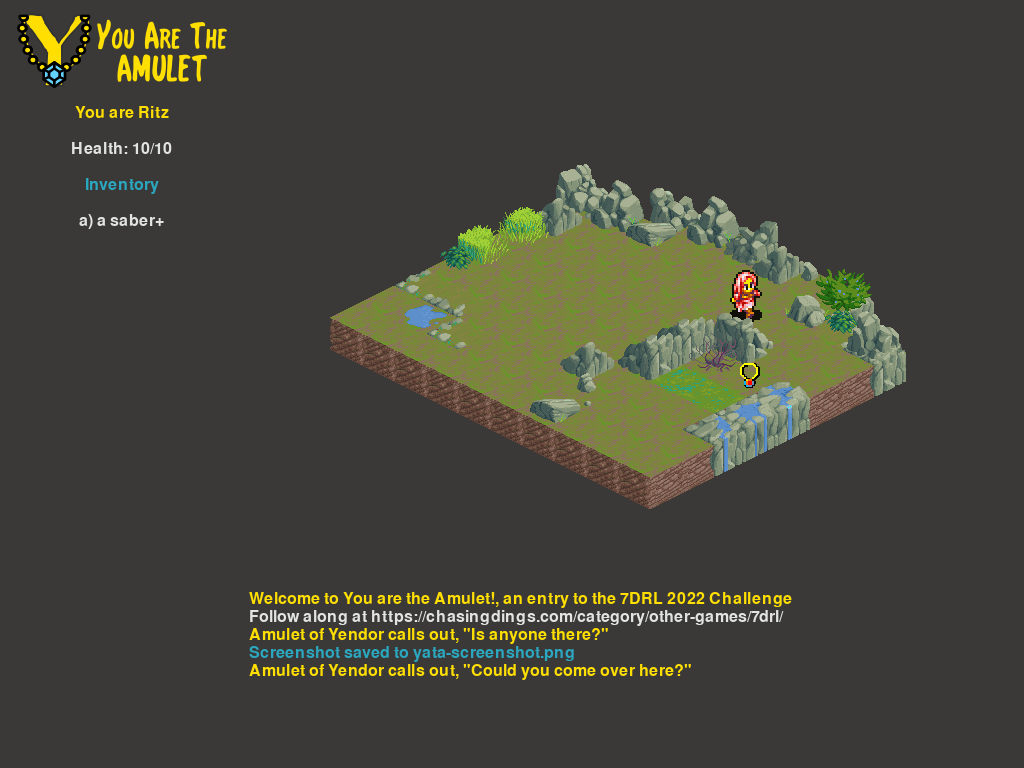
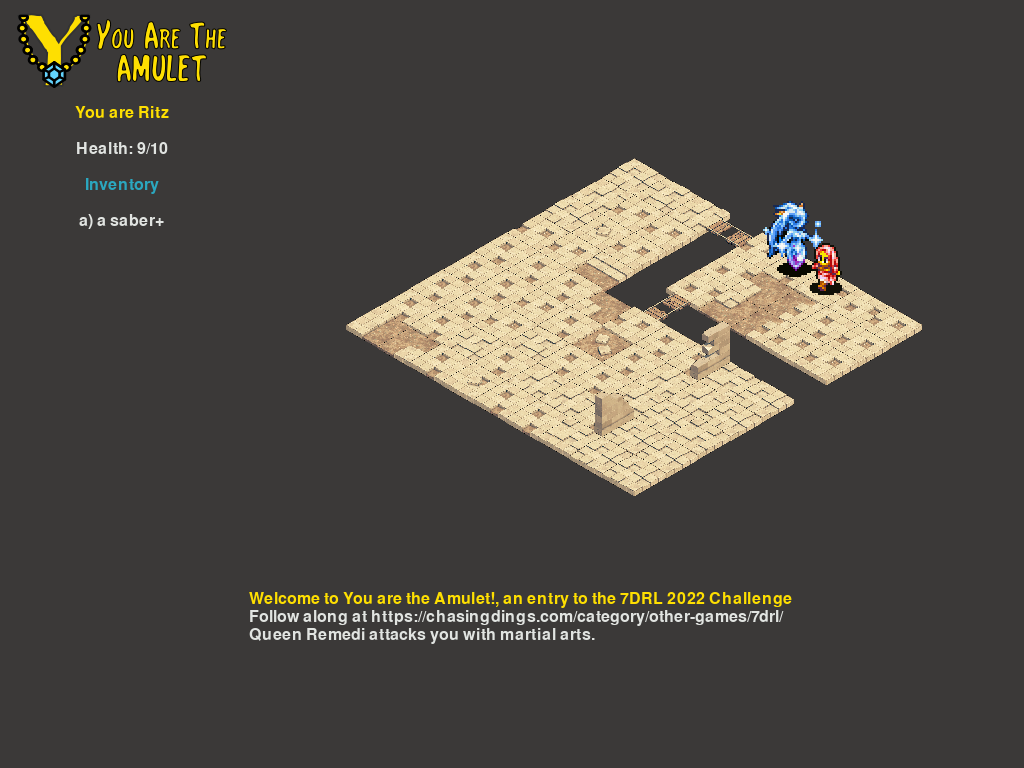
Add final room and tileset

diff --git a/gameloader.py b/gameloader.py
@@ -56,11 +56,13 @@ def create_map(amulet):
                 froom.height = tiled_room['width']
                 froom.width = tiled_room['height']
                 froom.layers = tiled_room['layers']
+                froom.offset = froom.tiled['offset']
                 for layer_no, layer in enumerate(tiled_room['layers']):
                     if layer_no == 0:
                         froom.good_spaces = set((x, y) for y in range(froom.height) for x in range(froom.width) if layer['data'][(froom.width - 1 - x) * froom.height + y] != 0)
                     elif layer_no == 1:
-                        froom.bad_spaces = set((x-1, y+1) for y in range(froom.height) for x in range(froom.width) if layer['data'][(froom.width - 1 - x) * froom.height + y] != 0)
+                        froom.bad_spaces = set((x-froom.offset, y+froom.offset) for y in range(froom.height) for x in range(froom.width) if layer['data'][(froom.width - 1 - x) * froom.height + y] != 0)
+                        print (f"Bad spaces: {froom.name} {froom.offset} {froom.bad_spaces}")
 
                 all_spaces = list(froom.good_spaces - froom.bad_spaces)
                 froom.good_spaces = set(all_spaces)
@@ -150,10 +152,11 @@ def load_actors(amulet, floor_yaml, floor_room_map, floor_room_tiles_map):
         
         p_actor.health = p_actor.max_health = template['health']
 
-        for item in actor['inventory']:
-            pitem = Item(amulet.weapons[item['item']])
-            pitem.identified = True
-            p_actor.inventory.append(pitem)
+        if 'inventory' in actor and actor['inventory']:
+            for item in actor['inventory']:
+                pitem = Item(amulet.weapons[item['item']])
+                pitem.identified = True
+                p_actor.inventory.append(pitem)
 
         wieldable_items = [item for item in p_actor.inventory if item.can_wield()]
         if wieldable_items:

diff --git a/room.py b/room.py
@@ -40,6 +40,7 @@ class Room:
         self.floor_tile.width = self.tiled['tilewidth']
         self.floor_tile.height = self.tiled['tileheight']
         self.floor_tile.surface_height = self.tiled['displayheight']
+        self.floor_lift = self.tiled['lift']
 
         layer = self.layers[0]['data']
 
@@ -87,7 +88,7 @@ class Room:
                 if sprite_num == 0:
                     continue
                 bx, by = self.screen_coords(x, y)
-                surface.blit(self.floor_tile_cache[sprite_num], (bx+dx, by+dy))
+                surface.blit(self.floor_tile_cache[sprite_num], (bx+dx, by+dy-self.floor_lift))
 
         ssize = 64
 
@@ -101,7 +102,7 @@ class Room:
                 for y in range(self.height):
                         sprite_num = layer[(self.width - 1 - x) * self.height + y]
                         if sprite_num != 0:
-                            hp = HasPosition((x-1, y+1))
+                            hp = HasPosition((x-self.offset, y+self.offset))
                             hp.image = self.floor_tile_cache[sprite_num]
                             draw_list.append(hp)
 
@@ -115,8 +116,8 @@ class Room:
                 surface.blit(
                     sprite, (sx + dx + (ssize-rects[2])//2, sy + dy - rects[3]+ssize//3))
             else:
-                bx, by = self.screen_coords(actor.x+1, actor.y-1)
-                surface.blit(actor.image, (bx+dx, by+dy))
+                bx, by = self.screen_coords(actor.x+self.offset, actor.y-self.offset)
+                surface.blit(actor.image, (bx+dx, by+dy-self.floor_lift))
 
         for exit in exits_to_draw:
             if exit[2] == self.height:

diff --git a/amulet.py b/amulet.py
@@ -178,6 +178,8 @@ class Amulet:
         playerMoved = False
         waiting_for_selection = None
         waiting_for_godot = False
+        saving_ani = False
+        ani_frame = 0
 
         while self.state == ExitState.RUNNING:
             room = self.get_player_room()
@@ -213,6 +215,9 @@ class Amulet:
                         elif event.key == pygame.K_DOWN:
                             if player.alive:
                                 self.rotate_player(2)
+                        elif event.key == pygame.K_F12:
+                            saving_ani = True
+                            ani_frame = 0
                         elif event.key == pygame.K_p and event.mod & pygame.KMOD_SHIFT:
                             self.new_alert("Put on what? (type letter of item)")
                             waiting_for_selection = 'P'
@@ -237,6 +242,13 @@ class Amulet:
                         actor.animate()
                         if actor != player:
                             actor.face_player(player.x, player.y)
+                    if saving_ani:
+                        pygame.image.save(self.layout.screen, f"animation-{ani_frame:04}.png")
+                        ani_frame += 1
+                        if ani_frame == 4:
+                            saving_ani = False
+                            ani_frame = 0
+                            self.layout.add_message("Finished recording animation", TextColor.COOL)
                 elif event.type == self.movement_event:
                     for actor in [a for a in actors if a.getMoving() and a.alive]:
                         actor.update()
